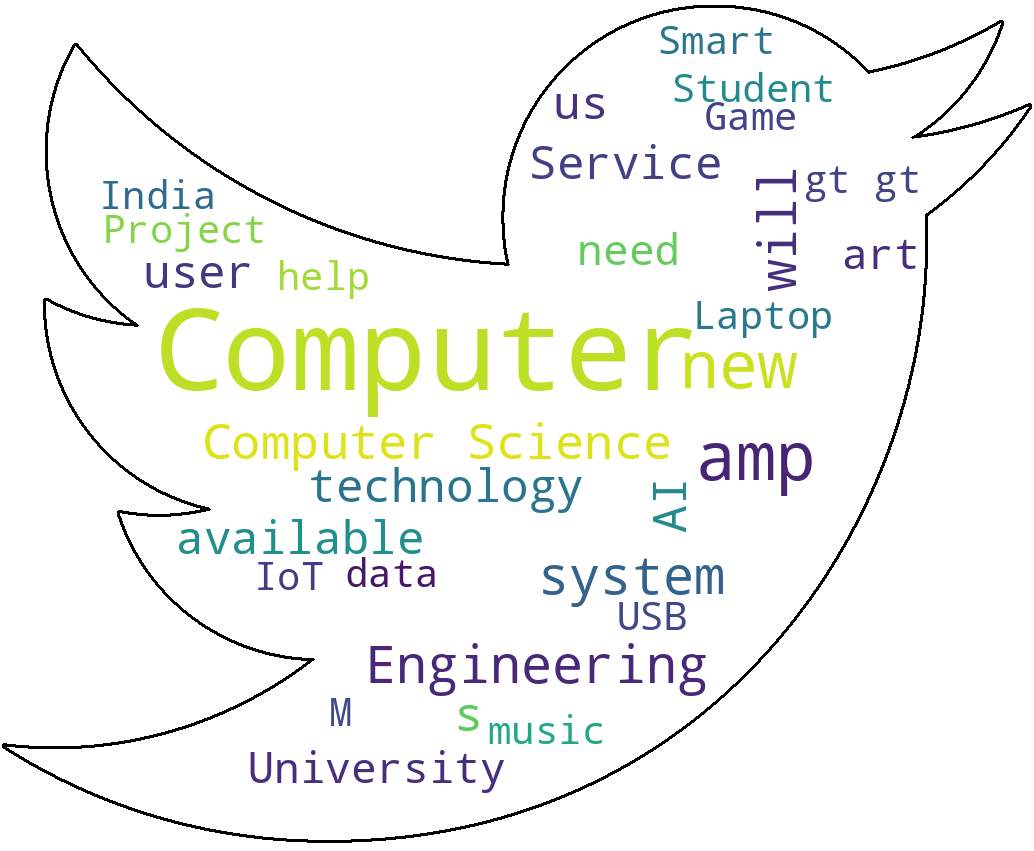
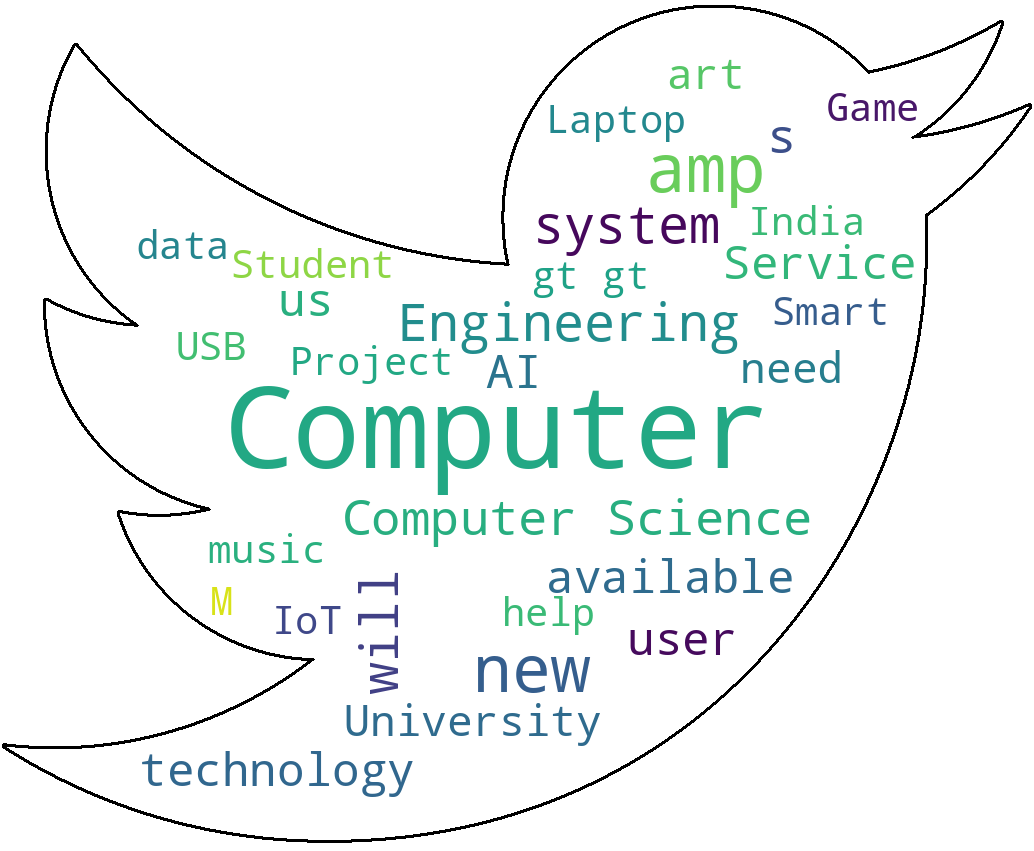
add STOPWORDS for wordcloud, and generate new

Changed region(s): [[0.0928, 0.0306, 0.8975, 0.9471]]

diff --git a/src/sentimentanalysis.py b/src/sentimentanalysis.py
@@ -8,7 +8,7 @@ import numpy as np
 from PIL import Image
 import os
 import matplotlib.pyplot as plt
-import wordcloud
+from wordcloud import WordCloud, STOPWORDS
 import src.constants as const
 
 
@@ -105,8 +105,8 @@ class SentimentAnalysis:
             Image.open(os.path.join(d, "wordcloud/masks/twitterlogo.png"))
         )
         # generate wordcloud
-        wc = wordcloud.WordCloud(
-            background_color="white", max_words=30, mask=twitter_mask, contour_width=3
+        wc = WordCloud(
+            background_color="white", max_words=30, mask=twitter_mask, stopwords=STOPWORDS, contour_width=3
         ).generate(all_tweets_text)
         # store to file
         wc.to_file(os.path.join(d, f"fetched/{querystring}/10MostUsedWords_wc.png"))
